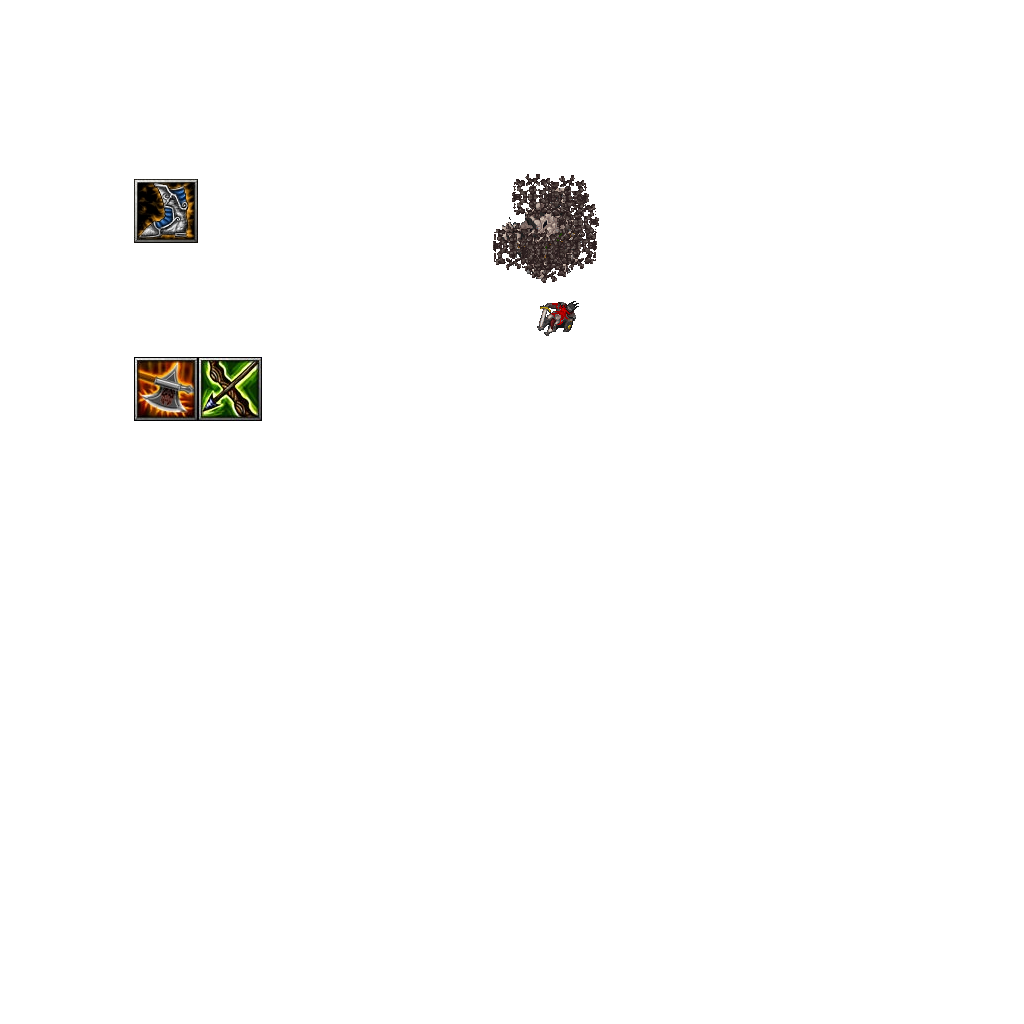
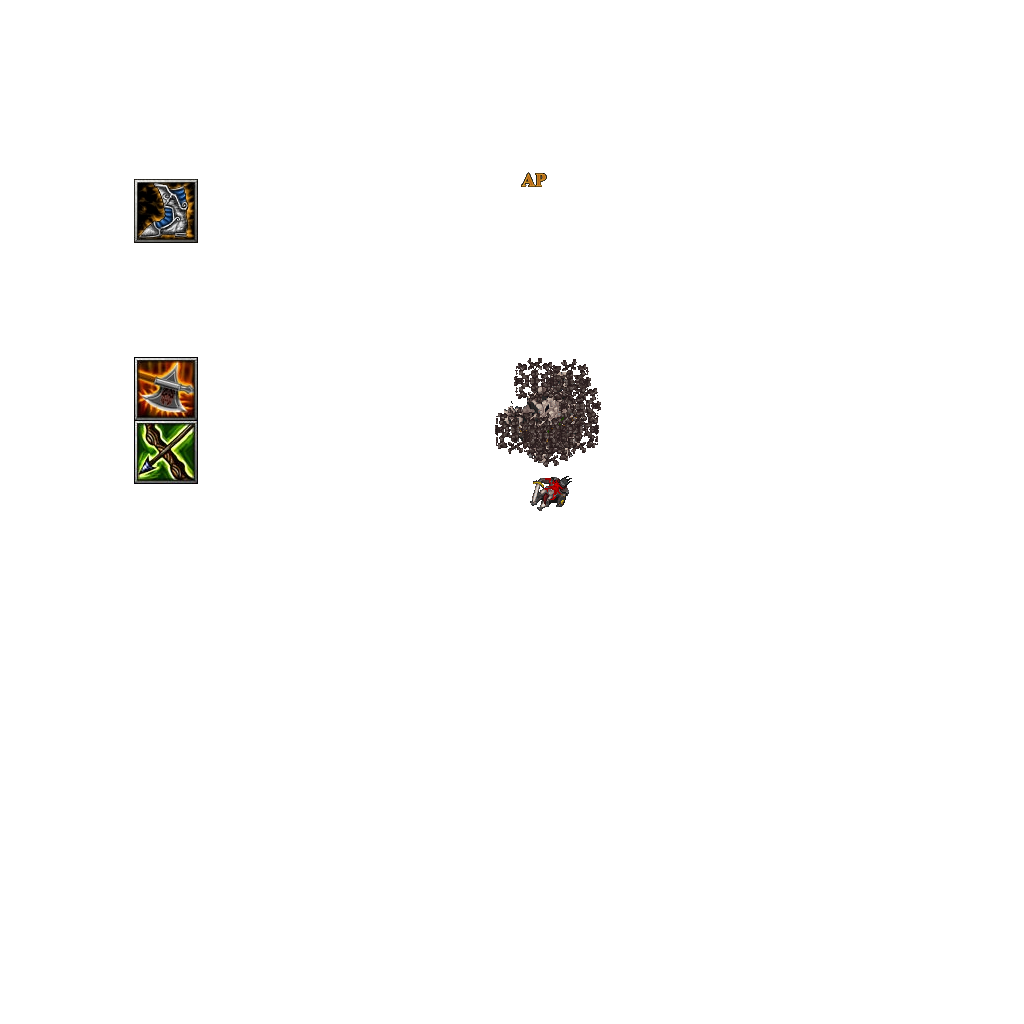
Updated gameplay info help

Changed region(s): [[0.4688, 0.1562, 0.5938, 0.5], [0.125, 0.3438, 0.2812, 0.5]]

diff --git a/LOCC/HelpMenuState.cpp b/LOCC/HelpMenuState.cpp
@@ -93,11 +93,11 @@ void CHelpMenuState::Render(void)
 	tiletxt ="A Tile giving";
 	m_pBitmapfont->Print(tiletxt.c_str(),180,260,.25f,D3DCOLOR_XRGB(255,255,255));
 	tiletxt ="a dodge chance";
-	m_pBitmapfont->Print(tiletxt.c_str(),180,270,.25f,D3DCOLOR_XRGB(255,255,255));
+	m_pBitmapfont->Print(tiletxt.c_str(),180,272,.25f,D3DCOLOR_XRGB(255,255,255));
 	tiletxt ="costing 2 AP ";
-	m_pBitmapfont->Print(tiletxt.c_str(),180,280,.25f,D3DCOLOR_XRGB(255,255,255));
+	m_pBitmapfont->Print(tiletxt.c_str(),180,285,.25f,D3DCOLOR_XRGB(255,255,255));
 	tiletxt ="to move across";
-	m_pBitmapfont->Print(tiletxt.c_str(),180,290,.25f,D3DCOLOR_XRGB(255,255,255));
+	m_pBitmapfont->Print(tiletxt.c_str(),180,295,.25f,D3DCOLOR_XRGB(255,255,255));
 
 	tiletxt ="-Mountains-";
 	m_pBitmapfont->Print(tiletxt.c_str(),180,330,.25f,D3DCOLOR_XRGB(255,255,255));
@@ -239,8 +239,8 @@ void CHelpMenuState::Render(void)
 		m_pBitmapfont->Print(tiletxt.c_str(),265,315,.25f,D3DCOLOR_XRGB(255,255,255));
 		tiletxt ="units in one cardial Direction ";
 		m_pBitmapfont->Print(tiletxt.c_str(),265,330,.25f,D3DCOLOR_XRGB(255,255,255));
-		tiletxt ="-LAST CHARGED MUST BE OPEN";
-		m_pBitmapfont->Print(tiletxt.c_str(),265,345,.24f,D3DCOLOR_XRGB(255,255,255));
+		tiletxt ="-TILE CHARGED TO MUST BE OPEN";
+		m_pBitmapfont->Print(tiletxt.c_str(),265,345,.23f,D3DCOLOR_XRGB(255,255,255));
 
 		tiletxt ="-Archer-";
 		m_pBitmapfont->Print(tiletxt.c_str(),125,370,.3f,D3DCOLOR_XRGB(255,255,255));
@@ -269,7 +269,7 @@ void CHelpMenuState::Render(void)
 		tiletxt ="-Castle Base-";
 		m_pBitmapfont->Print(tiletxt.c_str(),550,150,.3f,D3DCOLOR_XRGB(255,255,255));
 		tiletxt ="Support Unit";
-		m_pBitmapfont->Print(tiletxt.c_str(),610,190,.25f,D3DCOLOR_XRGB(255,255,255));
+		m_pBitmapfont->Print(tiletxt.c_str(),610,180,.25f,D3DCOLOR_XRGB(255,255,255));
 		tiletxt ="Special ability: Spawn Unit";
 		m_pBitmapfont->Print(tiletxt.c_str(),610,195,.25f,D3DCOLOR_XRGB(255,255,255));
 		tiletxt ="The Base can Spawn ";
@@ -304,11 +304,70 @@ void CHelpMenuState::Render(void)
 		CSGD_TextureManager::GetInstance()->Draw(m_nGameplayHelpID,0,0,1.0f,1.0f,0,0,0,0,D3DXCOLOR(255,255,255,255));
 			
 		string TileTitle ("Gameplay Information");
-		int widthstart=CGame::GetInstance()->GetWindowWidth()/2-200;
+		int widthstart=CGame::GetInstance()->GetWindowWidth()/2-220;
 		m_pBitmapfont->Print(TileTitle.c_str(),widthstart,50,.9f,D3DCOLOR_XRGB(255,255,255));
 		
 		TileTitle="-Phases-";
-		m_pBitmapfont->Print(TileTitle.c_str(),100,120,.4f,D3DCOLOR_XRGB(255,255,255));
+		m_pBitmapfont->Print(TileTitle.c_str(),120,120,.4f,D3DCOLOR_XRGB(255,255,255));
+
+		string tiletxt ("-Movement-");
+		m_pBitmapfont->Print(tiletxt.c_str(),125,150,.3f,D3DCOLOR_XRGB(255,255,255));
+		tiletxt ="During movement, players move";
+		m_pBitmapfont->Print(tiletxt.c_str(),200,170,.25f,D3DCOLOR_XRGB(255,255,255));
+		tiletxt ="their champions and other units, ";
+		m_pBitmapfont->Print(tiletxt.c_str(),200,190,.25f,D3DCOLOR_XRGB(255,255,255));
+		tiletxt ="as well as cast any champion ";
+		m_pBitmapfont->Print(tiletxt.c_str(),200,210,.25f,D3DCOLOR_XRGB(255,255,255));
+		tiletxt ="spells that can be cast during ";
+		m_pBitmapfont->Print(tiletxt.c_str(),200,230,.25f,D3DCOLOR_XRGB(255,255,255));
+		tiletxt ="the movement phase ";
+		m_pBitmapfont->Print(tiletxt.c_str(),200,250,.25f,D3DCOLOR_XRGB(255,255,255));
+		//tiletxt ="Unit has access to ";
+		//m_pBitmapfont->Print(tiletxt.c_str(),265,225,.25f,D3DCOLOR_XRGB(255,255,255));
+		//tiletxt ="customizible Spell trees";
+		//m_pBitmapfont->Print(tiletxt.c_str(),265,240,.25f,D3DCOLOR_XRGB(255,255,255));
+
+		tiletxt ="-Attack-";
+		m_pBitmapfont->Print(tiletxt.c_str(),125,340,.3f,D3DCOLOR_XRGB(255,255,255));
+		tiletxt ="During the attack phase, ";
+		m_pBitmapfont->Print(tiletxt.c_str(),200,360,.25f,D3DCOLOR_XRGB(255,255,255));
+		tiletxt ="Champions and other units "; 
+		m_pBitmapfont->Print(tiletxt.c_str(),200,380,.25f,D3DCOLOR_XRGB(255,255,255));
+		tiletxt ="can can do basic attacks";
+		m_pBitmapfont->Print(tiletxt.c_str(),200,400,.25f,D3DCOLOR_XRGB(255,255,255));
+		tiletxt ="within range, or perform ";
+		m_pBitmapfont->Print(tiletxt.c_str(),200,420,.25f,D3DCOLOR_XRGB(255,255,255));
+		tiletxt ="thier special Abilities ";
+		m_pBitmapfont->Print(tiletxt.c_str(),200,440,.25f,D3DCOLOR_XRGB(255,255,255));
+
+		tiletxt ="-Action Points-";
+		m_pBitmapfont->Print(tiletxt.c_str(),500,150,.3f,D3DCOLOR_XRGB(255,255,255));
+		tiletxt ="Action Point, or AP,";
+		m_pBitmapfont->Print(tiletxt.c_str(),550,170,.25f,D3DCOLOR_XRGB(255,255,255));
+		tiletxt ="is you centeral focus";
+		m_pBitmapfont->Print(tiletxt.c_str(),550,190,.25f,D3DCOLOR_XRGB(255,255,255));
+		tiletxt ="for how to move and ";
+		m_pBitmapfont->Print(tiletxt.c_str(),550,210,.25f,D3DCOLOR_XRGB(255,255,255));
+		tiletxt ="what to attack. ";
+		m_pBitmapfont->Print(tiletxt.c_str(),550,230,.25f,D3DCOLOR_XRGB(255,255,255));
+		tiletxt ="Every action cost AP" ;
+		m_pBitmapfont->Print(tiletxt.c_str(),550,250,.25f,D3DCOLOR_XRGB(255,255,255));
+
+		
+		tiletxt ="-Losing/Winning the Game-";
+		m_pBitmapfont->Print(tiletxt.c_str(),500,340,.3f,D3DCOLOR_XRGB(255,255,255));
+		tiletxt ="Player can Win or";		   
+		m_pBitmapfont->Print(tiletxt.c_str(),610,360,.25f,D3DCOLOR_XRGB(255,255,255));
+		tiletxt ="lose the game by";		   
+		m_pBitmapfont->Print(tiletxt.c_str(),610,380,.25f,D3DCOLOR_XRGB(255,255,255));
+		tiletxt ="Defeating the ";		   
+		m_pBitmapfont->Print(tiletxt.c_str(),610,400,.25f,D3DCOLOR_XRGB(255,255,255));
+		tiletxt ="enemy Champion or ";			   
+		m_pBitmapfont->Print(tiletxt.c_str(),610,420,.25f,D3DCOLOR_XRGB(255,255,255));
+		tiletxt ="Destorying the";	   
+		m_pBitmapfont->Print(tiletxt.c_str(),610,440,.25f,D3DCOLOR_XRGB(255,255,255));
+		tiletxt ="enemy base ";
+		m_pBitmapfont->Print(tiletxt.c_str(),610,460,.3f,D3DCOLOR_XRGB(255,255,255));
 	}
 }
 
